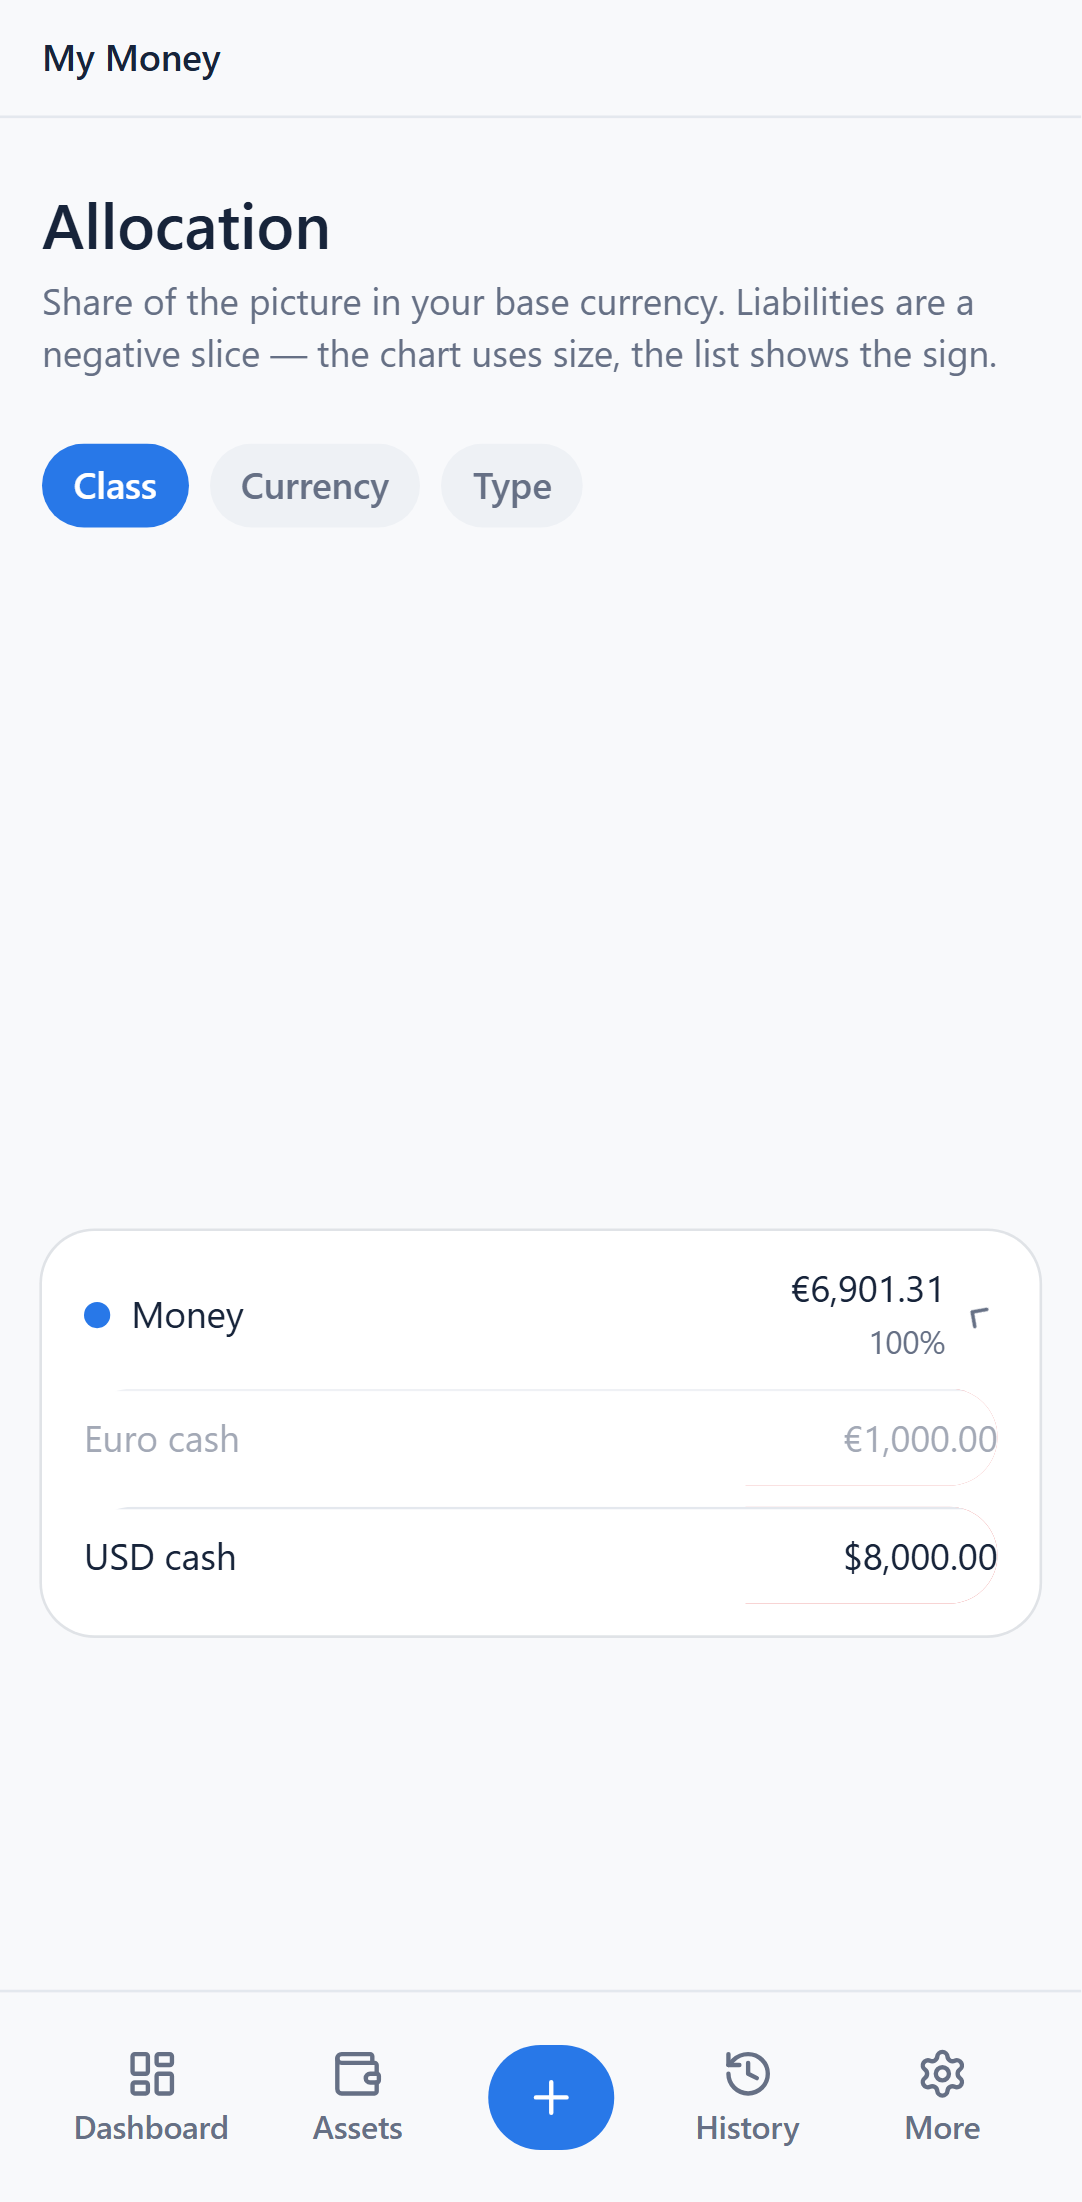
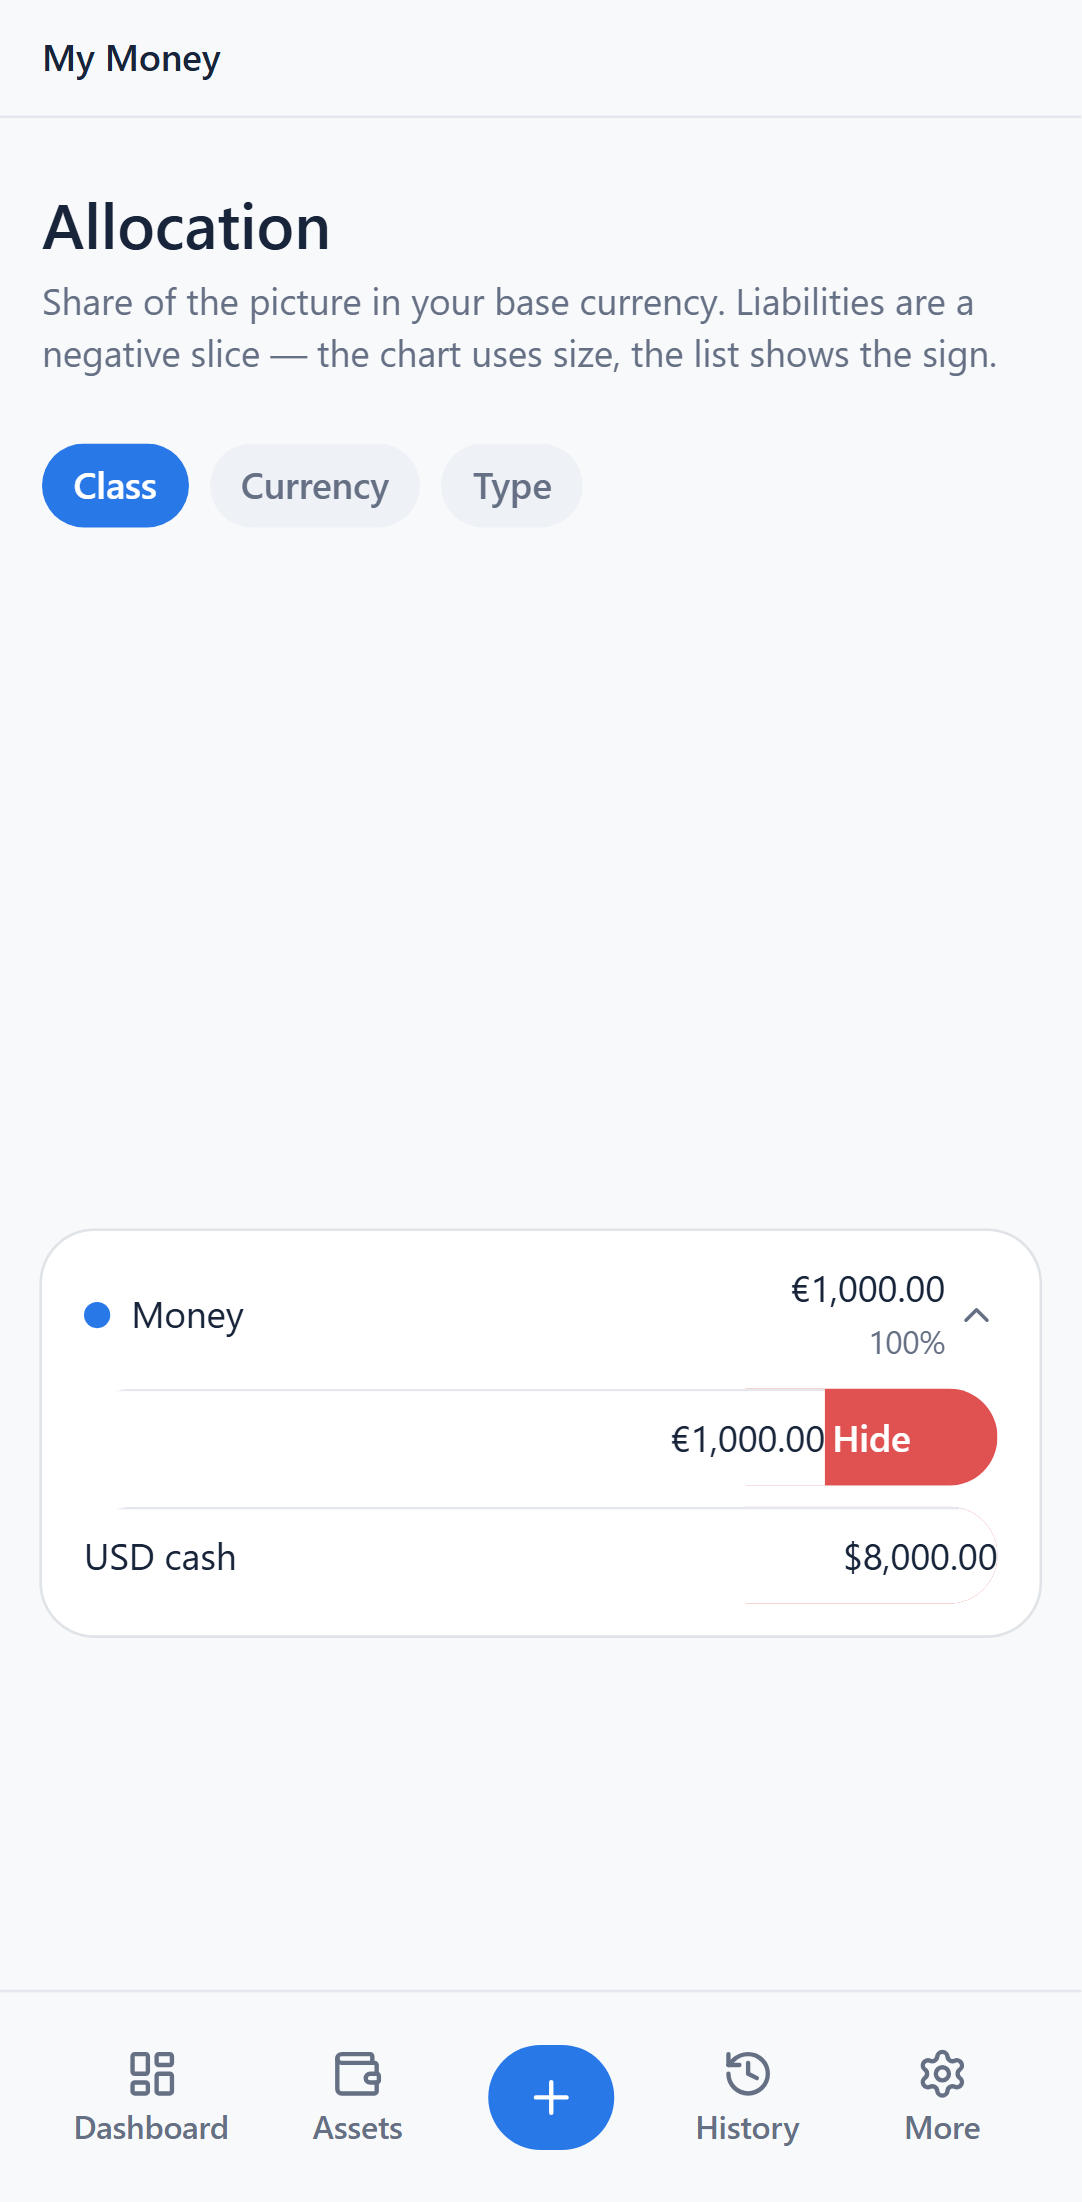
#150: reveal Allocation Hide on tap so page scroll does not steal the gesture.

Changed region(s): [[0.6405, 0.6176, 0.915, 0.6794], [0.1525, 0.6485, 0.2135, 0.6794], [0.0915, 0.6485, 0.122, 0.6794]]

diff --git a/src/shared/ui/swipe-reveal-row.tsx b/src/shared/ui/swipe-reveal-row.tsx
@@ -9,11 +9,14 @@ export function SwipeRevealRow({
   actionAria,
   onAction,
   children,
+  revealOn = 'swipe',
 }: {
   actionLabel: string
   actionAria: string
   onAction: () => void
   children: ReactNode
+  /** Allocation uses click so vertical scroll does not steal a swipe (#150). */
+  revealOn?: 'swipe' | 'click'
 }) {
   const [open, setOpen] = useState(false)
   const startX = useRef<number | null>(null)
@@ -38,6 +41,12 @@ export function SwipeRevealRow({
     else if (dx > THRESHOLD_PX) setOpen(false)
   }
 
+  const panelClassName =
+    'relative w-full bg-card text-left transition-transform duration-200 ease-out'
+  const panelStyle = {
+    transform: open ? 'translateX(-6rem)' : 'translateX(0)',
+  } as const
+
   return (
     <div className="relative overflow-hidden rounded-xl">
       <button
@@ -47,22 +56,36 @@ export function SwipeRevealRow({
           ACTION_WIDTH_CLASS,
         )}
         aria-label={actionAria}
-        onClick={() => {
+        onClick={(event) => {
+          event.stopPropagation()
           onAction()
           setOpen(false)
         }}
       >
         {actionLabel}
       </button>
-      <div
-        className="relative bg-card transition-transform duration-200 ease-out"
-        style={{ transform: open ? 'translateX(-6rem)' : 'translateX(0)' }}
-        data-swipe-open={open ? 'true' : 'false'}
-        onPointerDown={onPointerDown}
-        onPointerUp={onPointerUp}
-      >
-        {children}
-      </div>
+      {revealOn === 'click' ? (
+        <button
+          type="button"
+          className={panelClassName}
+          style={panelStyle}
+          data-swipe-open={open ? 'true' : 'false'}
+          aria-expanded={open}
+          onClick={() => setOpen((current) => !current)}
+        >
+          {children}
+        </button>
+      ) : (
+        <div
+          className={panelClassName}
+          style={panelStyle}
+          data-swipe-open={open ? 'true' : 'false'}
+          onPointerDown={onPointerDown}
+          onPointerUp={onPointerUp}
+        >
+          {children}
+        </div>
+      )}
     </div>
   )
 }

diff --git a/src/data/issueRcas.ts b/src/data/issueRcas.ts
@@ -25,8 +25,8 @@ export const issueRcas: IssueRca[] = [
       en: 'Allocation: hide/exclude assets and drop them from comparison',
       ru: 'Распределение: скрывать активы и убирать их из сравнения',
     },
-    en: 'Dashboard Hide (#146) did not exist on Allocation expanded rows, and comparison still listed excluded holdings. Same swipe Hide; comparison omits those rows.',
-    ru: 'Скрытие со Сводки (#146) не работало на развёрнутых строках распределения, а сравнение всё ещё показывало excluded. Тот же свайп «Скрыть»; сравнение эти строки не берёт.',
+    en: 'Dashboard Hide (#146) did not exist on Allocation expanded rows, and comparison still listed excluded holdings. Tap the holding to reveal Hide (swipe fought page scroll); comparison omits those rows.',
+    ru: 'Скрытие со Сводки (#146) не работало на развёрнутых строках распределения, а сравнение всё ещё показывало excluded. Нажатие на строку открывает «Скрыть» (свайп перехватывала прокрутка); сравнение эти строки не берёт.',
   },
   {
     issue: 149,

diff --git a/e2e/validation-screenshots.spec.ts b/e2e/validation-screenshots.spec.ts
@@ -74,21 +74,16 @@ test('capture Allocation Type expanded holdings (#123)', async ({ page }) => {
   })
 })
 
-test('capture Allocation expanded swipe Hide (#150)', async ({ page }) => {
+test('capture Allocation expanded tap Hide (#150)', async ({ page }) => {
   await seedValidationFixture(page, { currencyDisplayMode: 'base' })
   await page.goto('/allocation')
   await expect(page.getByRole('heading', { name: 'Allocation' })).toBeVisible()
   const slice = page.getByRole('button', { name: 'Money · Holdings' })
   await slice.click()
   await expect(page.getByText('Euro cash')).toBeVisible()
-  await page.getByRole('button', { name: 'Hide Euro cash' }).evaluate((el) =>
-    (el as HTMLButtonElement).click(),
-  )
-  await page.reload()
-  await expect(page.getByRole('heading', { name: 'Allocation' })).toBeVisible()
-  await slice.click()
-  await expect(page.getByText('Euro cash')).toBeVisible()
-  await expect(page.locator('[data-excluded="true"]')).toBeVisible()
+  await page.getByText('Euro cash').click()
+  await expect(page.locator('[data-swipe-open="true"]')).toBeVisible()
+  await expect(page.getByRole('button', { name: 'Hide Euro cash' })).toBeVisible()
   await page.screenshot({
     path: join(outDir, '150-allocation-swipe-hide.png'),
     fullPage: true,

diff --git a/src/features/allocation/AllocationScreen.test.tsx b/src/features/allocation/AllocationScreen.test.tsx
@@ -1,5 +1,5 @@
 import 'fake-indexeddb/auto'
-import { render, screen } from '@testing-library/react'
+import { act, render, screen, waitFor } from '@testing-library/react'
 import userEvent from '@testing-library/user-event'
 import { MemoryRouter } from 'react-router-dom'
 import { beforeEach, describe, expect, it } from 'vitest'
@@ -351,10 +351,19 @@ describe('AllocationScreen', () => {
       }),
     )
     expect(await screen.findByText('Revolut')).toBeInTheDocument()
-    await user.click(screen.getByRole('button', { name: 'Hide Revolut' }))
-    expect(useAssetStore.getState().assets.find((a) => a.id === 'a1')?.trackingStatus).toBe(
-      'excluded',
-    )
+    await user.click(screen.getByText('Revolut'))
+    expect(
+      screen.getByText('Revolut').closest('[data-swipe-open]'),
+    ).toHaveAttribute('data-swipe-open', 'true')
+    await act(async () => {
+      screen.getByRole('button', { name: 'Hide Revolut' }).click()
+    })
+    await waitFor(() => {
+      expect(
+        useAssetStore.getState().assets.find((a) => a.id === 'a1')
+          ?.trackingStatus,
+      ).toBe('excluded')
+    })
     expect(await screen.findByText('Revolut')).toBeInTheDocument()
     expect(
       screen.getByText('Revolut').closest('[data-excluded]'),

diff --git a/src/shared/ui/swipe-reveal-row.test.tsx b/src/shared/ui/swipe-reveal-row.test.tsx
@@ -27,4 +27,26 @@ describe('SwipeRevealRow (#146)', () => {
     await user.click(screen.getByRole('button', { name: 'Hide Cash' }))
     expect(onAction).toHaveBeenCalledOnce()
   })
+
+  it('reveals the action on click when revealOn is click (#150)', async () => {
+    const user = userEvent.setup()
+    const onAction = vi.fn()
+    render(
+      <SwipeRevealRow
+        revealOn="click"
+        actionLabel="Hide"
+        actionAria="Hide Cash"
+        onAction={onAction}
+      >
+        <p>Cash</p>
+      </SwipeRevealRow>,
+    )
+    const panel = screen.getByRole('button', { expanded: false })
+    expect(panel).toHaveAttribute('data-swipe-open', 'false')
+    await user.click(panel)
+    expect(panel).toHaveAttribute('data-swipe-open', 'true')
+    expect(panel).toHaveAttribute('aria-expanded', 'true')
+    await user.click(screen.getByRole('button', { name: 'Hide Cash' }))
+    expect(onAction).toHaveBeenCalledOnce()
+  })
 })

diff --git a/src/data/releaseNotes.ts b/src/data/releaseNotes.ts
@@ -10,6 +10,13 @@ export interface ReleaseNote {
 /** User-facing changelog, most-recent-first. Add a row when an issue ships. */
 export const releaseNotes: ReleaseNote[] = [
   {
+    version: 162,
+    issue: 150,
+    date: '2026-08-30T13:15:00+03:00',
+    en: 'On Allocation, tap an expanded asset to show Hide — swipe was too easy to confuse with scrolling the page.',
+    ru: 'В распределении нажмите на развёрнутый актив, чтобы показать «Скрыть» — свайп слишком легко путался с прокруткой страницы.',
+  },
+  {
     version: 161,
     issue: 150,
     date: '2026-08-30T12:50:00+03:00',

diff --git a/src/features/allocation/AllocationChart.tsx b/src/features/allocation/AllocationChart.tsx
@@ -173,6 +173,7 @@ export function AllocationChart({
                   return (
                     <SwipeRevealRow
                       key={holding.assetId}
+                      revealOn="click"
                       actionLabel={
                         excluded
                           ? t.dashboard.showOnPositions

diff --git a/docs/issues-priority.md b/docs/issues-priority.md
@@ -29,7 +29,7 @@ _After the four web flows feel good. Android wraps this app; iOS does not._
 | [#148](https://github.com/ZhannaM85/my-money/issues/148) | 🔍 Pending validation | Dashboard-hidden assets stay in Positions in a disabled state | Row stays, greyed/muted. Depends on #146. |
 | [#147](https://github.com/ZhannaM85/my-money/issues/147) | 🔍 Pending validation | Exclude dashboard-hidden assets from totals and the chart | Drop hidden values from header, Positions total, chart, Allocation. Depends on #146. Prefer excluded (#30). |
 | [#149](https://github.com/ZhannaM85/my-money/issues/149) | 🔍 Pending validation | Quick add: House chip on Add asset | Type `house` already exists. Chip missing next to Apartment (screenshot: Квартира circled). |
-| [#150](https://github.com/ZhannaM85/my-money/issues/150) | 🔍 Pending validation | Allocation: hide/exclude assets and drop them from comparison | Same hide as #146–#148 on Распределение; omit from comparison rows/totals. |
+| [#150](https://github.com/ZhannaM85/my-money/issues/150) | 🔍 Pending validation | Allocation: hide/exclude assets and drop them from comparison | Tap expanded holding to reveal Hide (swipe fought page scroll). Omit from comparison. |
 | [#151](https://github.com/ZhannaM85/my-money/issues/151) | 🔍 Pending validation | Show ownership share on Positions so partial-share prices are not confusing | Screenshot: Домик Сосново / Квартира Ручьи. Share already stored (#28); lists omit it. |
 
 ---

diff --git a/docs/VALIDATION_SCREENSHOTS.md b/docs/VALIDATION_SCREENSHOTS.md
@@ -47,7 +47,7 @@ gh issue edit 108 --add-label validation
 | `149-add-asset-house-chip.png` | Add asset · Quick add House chip selected (#149) |
 | `146-positions-swipe-hide.png` | Dashboard Positions · swipe left Hide CTA (#146) |
 | `147-positions-hidden-from-total.png` | Dashboard · hidden asset dropped from total (#147) |
-| `150-allocation-swipe-hide.png` | Allocation · expanded holding swipe Hide (#150) |
+| `150-allocation-swipe-hide.png` | Allocation · tap expanded holding to reveal Hide (#150) |
 | `148-positions-hidden-disabled.png` | Dashboard Positions · hidden row disabled (#148) |
 | `151-positions-ownership-share.png` | Dashboard Positions · ownership share cue (#151) |
 
